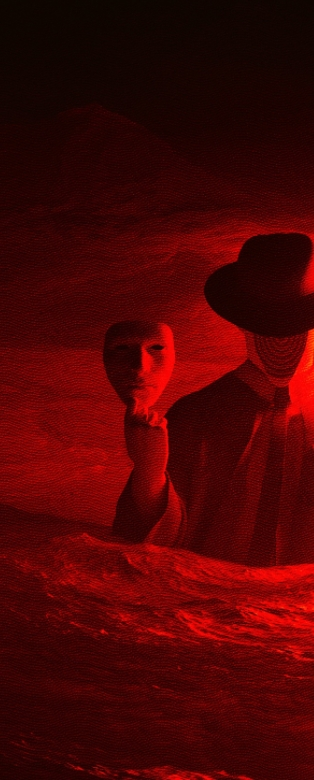
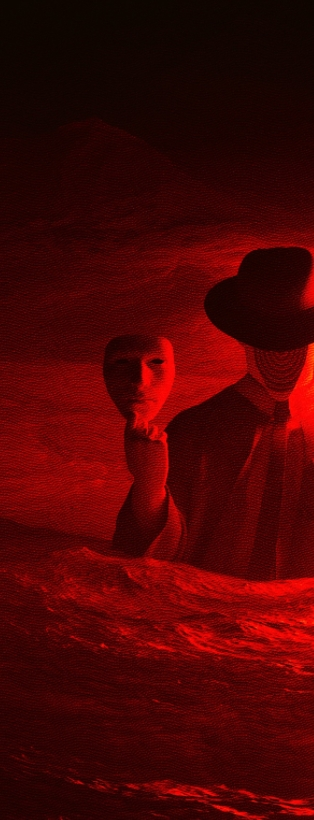
fix typo and image hight

diff --git a/README.md b/README.md
@@ -15,10 +15,9 @@
     /About_Me
     │
     ├── /bio
-    │   ├── he/him - Abdullah Bedwey - (arabic + english)
-    │   ├── /law graduated
-    │   ├── /Alx (software engineering 2024)
-    │   └── /embedded systems developer in research and development sector (R&D)
+    │   ├── He/him - Abdullah Bedwey - (arabic + english)
+    │   ├── /Law graduated
+    │   └── /Alx (software engineering 2024)
     │
     ├── /os
     │   ├── /linux
